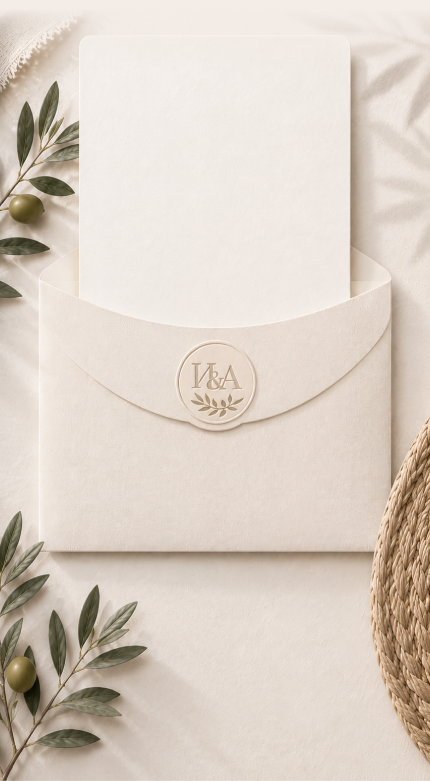
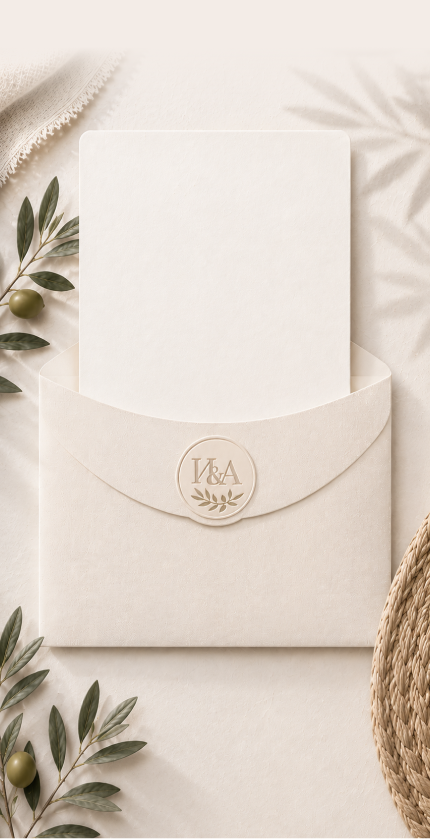
Update mobile hero assets and styling

diff --git a/src/App.css b/src/App.css
@@ -1208,15 +1208,12 @@
 
   .hero {
     --hero-mobile-width: 390;
-    --hero-mobile-height: 708;
-    --hero-mobile-bg: image-set(
-      url('./assets/mobile-hero-fixed-390.webp') type("image/webp"),
-      url('./assets/mobile-hero-fixed-390.png') type("image/png")
-    );
+    --hero-mobile-height: 761;
+    --hero-mobile-bg: url('./assets/mobile-hero-390.png');
     --hero-mobile-scale: calc(100vw / 390);
-    --hero-title-top: calc(var(--hero-mobile-scale) * 60);
+    --hero-title-top: calc(var(--hero-mobile-scale) * 140);
     --hero-title-to-bottom-gap: calc(var(--hero-mobile-scale) * 50);
-    --hero-arrow-bottom: calc(var(--hero-mobile-scale) * 220);
+    --hero-arrow-bottom: calc(var(--hero-mobile-scale) * 80);
     --hero-arrow-size: calc(var(--hero-mobile-scale) * 29.16);
 
     height: calc((100vw * var(--hero-mobile-height) / var(--hero-mobile-width)) + env(safe-area-inset-top, 0px));
@@ -1279,7 +1276,7 @@
     position: absolute;
     z-index: 1;
     top: auto;
-    bottom: calc(var(--hero-mobile-scale) * 265);
+    bottom: calc(var(--hero-mobile-scale) * 215);
     left: calc(50% - 0.06vw);
     display: block;
     width: calc(var(--hero-mobile-scale) * 270);
@@ -1356,33 +1353,24 @@
   @media (max-width: 382px) {
     .hero {
       --hero-mobile-width: 375;
-      --hero-mobile-height: 681;
-      --hero-mobile-bg: image-set(
-        url('./assets/mobile-hero-375.webp') type("image/webp"),
-        url('./assets/mobile-hero-375.png') type("image/png")
-      );
+      --hero-mobile-height: 731;
+      --hero-mobile-bg: url('./assets/mobile-hero-375.png');
     }
   }
 
   @media (min-width: 397px) and (max-width: 416px) {
     .hero {
       --hero-mobile-width: 402;
-      --hero-mobile-height: 730;
-      --hero-mobile-bg: image-set(
-        url('./assets/mobile-hero-402.webp') type("image/webp"),
-        url('./assets/mobile-hero-402.png') type("image/png")
-      );
+      --hero-mobile-height: 784;
+      --hero-mobile-bg: url('./assets/mobile-hero-402.png');
     }
   }
 
   @media (min-width: 417px) {
     .hero {
       --hero-mobile-width: 430;
-      --hero-mobile-height: 781;
-      --hero-mobile-bg: image-set(
-        url('./assets/mobile-hero-430.webp') type("image/webp"),
-        url('./assets/mobile-hero-430.png') type("image/png")
-      );
+      --hero-mobile-height: 839;
+      --hero-mobile-bg: url('./assets/mobile-hero-430.png');
     }
   }
 
@@ -1399,7 +1387,7 @@
     background-position:
       left -148px top 530px,
       right -152px top 610px,
-      left -235px top 2260px,
+      left -235px top 2140px,
       right -92px bottom 760px;
     background-size:
       610px auto,
@@ -1652,9 +1640,10 @@
   }
 
   .important-basket {
-    left: -52px;
-    width: 190px;
-    opacity: 0.48;
+    left: -6px;
+    bottom: -11px;
+    width: 230px;
+    opacity: 0.2;
   }
 
   .dress-code {